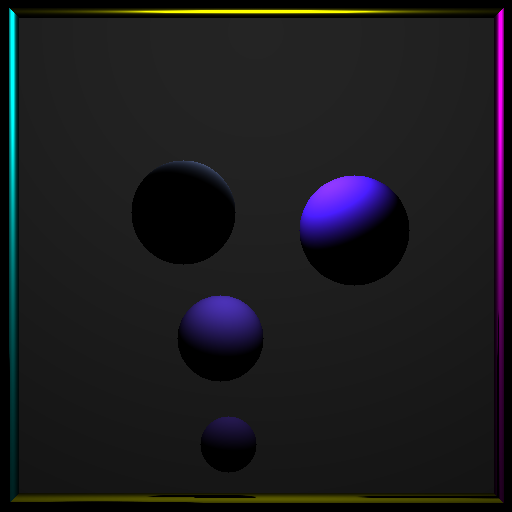
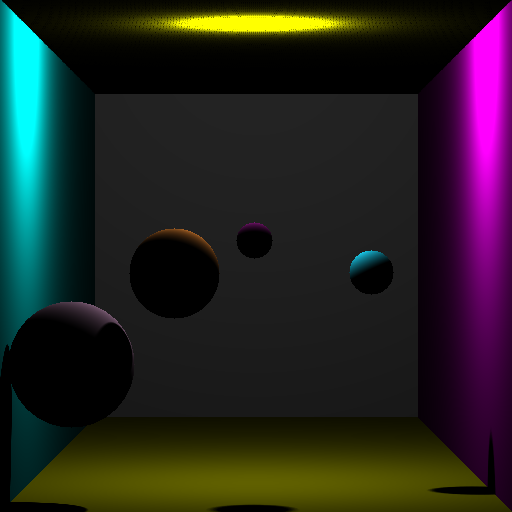
modif box

diff --git a/Projet_SI_1/Projet_SI_1/Projet_SI_1.cpp b/Projet_SI_1/Projet_SI_1/Projet_SI_1.cpp
@@ -127,18 +127,18 @@ int main()
 
 
 	int rBoxLeft = 100000;
-	int xBoxLeft = -99980;
+	int xBoxLeft = -99500;
 	int yBoxLeft = 256;
-	int zBoxLeft = 1500;
+	int zBoxLeft = 10000;
 	Vec3<float> centerBoxLeft = { xBoxLeft, yBoxLeft, zBoxLeft };
 	Sphere sphereLeft(centerBoxLeft, rBoxLeft, albedo - Vec3<float>{1.0f, 0.0f, 0.0f});
 	std::cout << centerBoxLeft << rBoxLeft << std::endl;
 	spheres.push_back(sphereLeft);
 
 	int rBoxRight = 100000;
-	int xBoxRight = 100492;
+	int xBoxRight = 100012;
 	int yBoxRight = 256;
-	int zBoxRight = 1500;
+	int zBoxRight = 10000;
 	Vec3<float> centerBoxRight = { xBoxRight, yBoxRight, zBoxRight };
 	Sphere sphereRight(centerBoxRight, rBoxRight, albedo - Vec3<float>{0.0f, 1.0f, 0.0f});
 	std::cout << centerBoxRight << rBoxRight << std::endl;
@@ -146,8 +146,8 @@ int main()
 
 	int rBoxBottom = 100000;
 	int xBoxBottom = 256;
-	int yBoxBottom = 100492;
-	int zBoxBottom = 1500;
+	int yBoxBottom = 100012;
+	int zBoxBottom = 10000;
 	Vec3<float> centerBoxBottom = { xBoxBottom, yBoxBottom, zBoxBottom };
 	Sphere sphereBottom(centerBoxBottom, rBoxBottom, albedo - Vec3<float>{0.0f, 0.0f, 1.0f});
 	std::cout << centerBoxBottom << rBoxBottom << std::endl;
@@ -155,8 +155,8 @@ int main()
 
 	int rBoxTop = 100000;
 	int xBoxTop = 256;
-	int yBoxTop = -99980;
-	int zBoxTop = 1500;
+	int yBoxTop = -99500;
+	int zBoxTop = 10000;
 	Vec3<float> centerBoxTop = { xBoxTop, yBoxTop, zBoxTop };
 	Sphere sphereTop(centerBoxTop, rBoxTop, albedo - Vec3<float>{0.0f, 0.0f, 1.0f});
 	std::cout << centerBoxTop << rBoxTop << std::endl;
